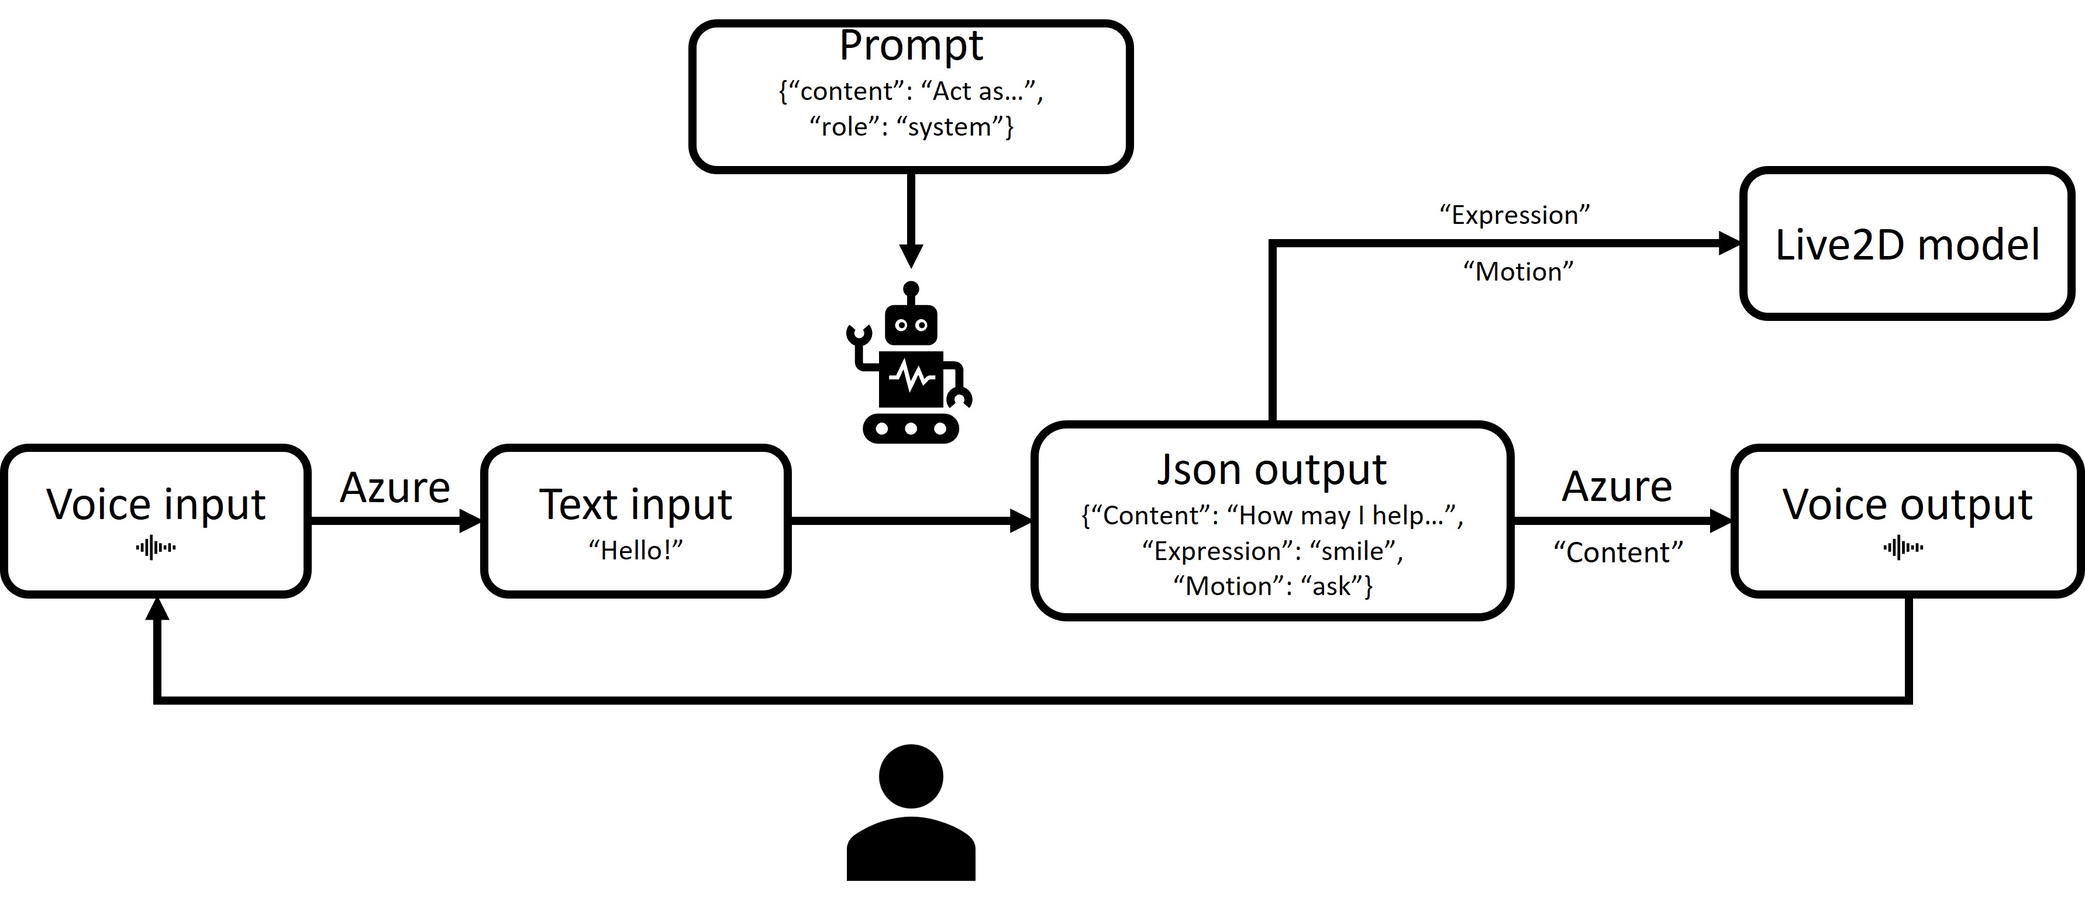
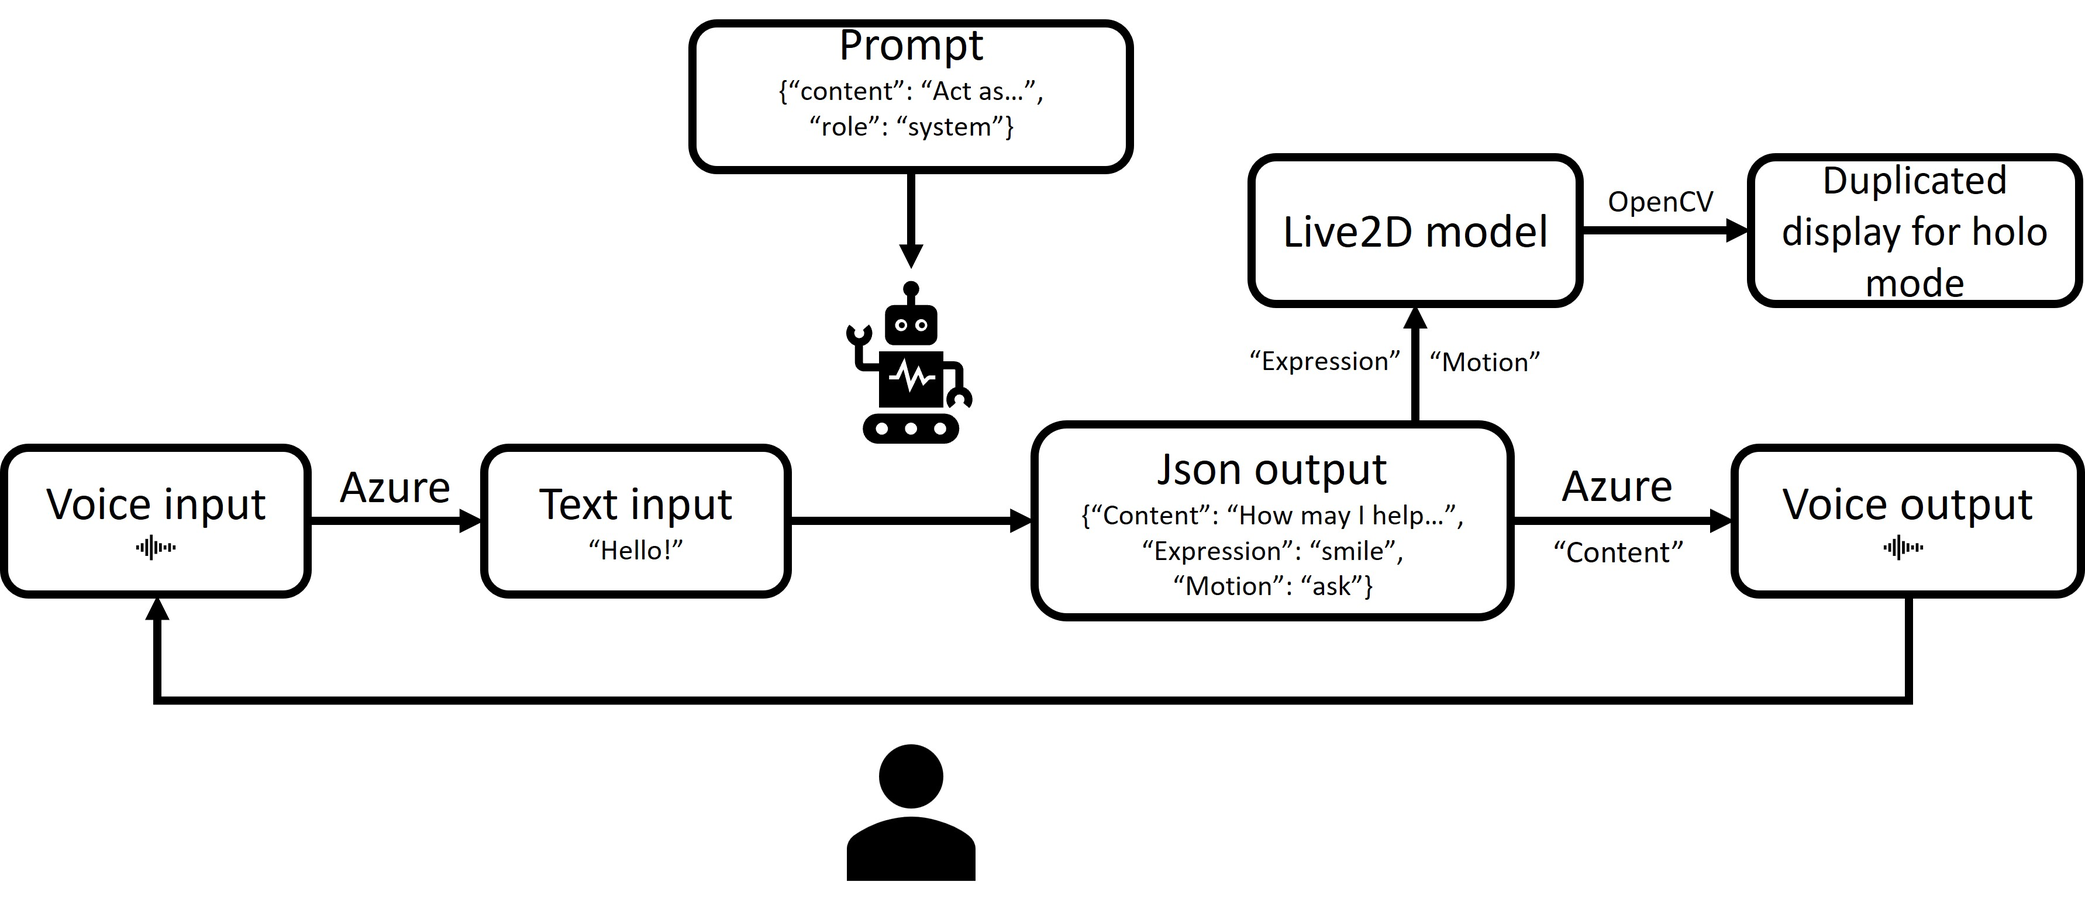
restructure_readme

Changed region(s): [[0.5916, 0.1543, 1.0, 0.463]]

diff --git a/README.md b/README.md
@@ -14,16 +14,14 @@
 + [TO-DO](#to-do)
 + [Introduction](#introduction)
 	+ [Prerequisites](#prerequisites)
-+ [Establishing the Environment](#establishing-the-environment)
-+ [Build and Deploy](#build-and-deploy)
-	+ [Windows](#windows)
-	+ [Linux](#linux)
 + [Usage](#usage)
 	+ [UI](#ui)
 	+ [Settings](#settings)
 	+ [Hologram](#hologram)
 + [Live2D Model](#live2d-model)
-+ [Pipeline](#pipeline)
++ [Build and Deploy](#build-and-deploy)
+	+ [Windows](#windows)
+	+ [Linux](#linux)
 + [End Note](#end-note)
 
 ## TO-DO<a name="to-do"></a>
@@ -37,103 +35,38 @@
 ## Introduction<a name="introduction"></a>
 [Return to Table of Content](#table-of-content)
 
+The goal is to develop a ChatGPT-based Live2D chatbot with hologram display.
 
-After months' thinking, I come up with a practical and controllable idea for the proposal!
++ The development shall base on Qt6/C++, which is totally new to me.
++ The Live2D chatbot shall either dock on the screen as a standard Live2D widget, or display in the holographic mode on a hologram pyramid.
++ The Live2D chatbot shall support voice and keyboard interaction, with natural expressions and even body motions.
 
-+ Develop a ChatGPT-based Live2D chatbot with hologram display.
-	+ The development shall base on Qt6/C++, which is totally new to me.
-	+ The Live2D chatbot shall either dock on the screen as a standard Live2D widget, or display in the holographic mode on a hologram pyramid.
-	+ The Live2D chatbot shall support voice and keyboard interaction, with natural expressions and even body motions.
-	+ The whole development process shall be well-archived and reproducible.
+The workflow of the project is like follows.
 
-The main idea goes like this. A cute [Live2D](https://www.live2d.com/en/) character (I shall call it Live2D model, or model for convenience) will stay on the bottom right of the user's screen. The model is nothing more than a common [Live2D widget](https://github.com/akiroz/Live2D-Widget), except for the fact that it is capable of vocal and bodily communication. And it can even turn into a hologram model once you activate the holo mode! Conceptually speaking it is similar to the [GateBox](https://www.gatebox.ai/), which is a famous virtual intelligent companion with hologram display as well. That said, we are actually DIY an (almost) free and personalized GateBox.
+![](screenshots/pipeline.jpg "The pipeline of the app.")
+> The input, should it be voice, will be converted to text by Azure. It is then combined to form the "messages" for OpenAI API format. The output from ChatGPT is in JSON format, containing three keys: "Expressions", "Motions", and "Content". The "Expressions" and "Motions" are used to animate the [Live2D](https://www.live2d.com/en/) model, and the "Content" will be voiced by Azure and also stitched to the "messages". The Live2D model can be duplicated by OpenCV for holographic display. The process Loops until the user terminates the talk session. The chat history is temporarily kept and will be read if user restart the chat or talk session, unless the user resets the history or closes the app. 
 
 #### Prerequisites<a name="prerequisites"></a>
 [Return to Table of Content](#table-of-content)
 
 All the prerequisites are listed below.
 
-First things first, a [PC](https://en.wikipedia.org/wiki/Personal_computer) is required. The development environment can be [Windows 10/11](https://www.microsoft.com/software-download/windows11) + [MSVC compiler](https://visualstudio.microsoft.com/vs/older-downloads/#visual-studio-2019-and-other-products) or [Ubuntu20/22](https://ubuntu.com/download/desktop) + [GCC compiler](https://linuxize.com/post/how-to-install-gcc-on-ubuntu-20-04/), with the [Qt Creator](https://github.com/qt-creator/qt-creator) as the [IDE](https://en.wikipedia.org/wiki/Integrated_development_environment). Also, a mirror APP is needed so that you can mirror your PC screen to a mobile device for hologram display (using a pyramid) through Wifi. A simple google (maybe new Bing nowadays) search can find you plenty of such apps.
+If you directly download the release:
 
-Second, an [OpenAI API key](https://platform.openai.com/docs/introduction) for chatGPT calls and a [Microsoft Azure API key](https://learn.microsoft.com/en-us/azure/search/search-security-api-keys?tabs=portal-use%2Cportal-find%2Cportal-query) for speech-to-text and text-to-speech services are required. When you speak to the Live2D character, your words will be conversed to texts using Azure's speech-to-text API and sent to chatGPT. The latter's response will be sent to Azure's text-to-speech service so that the model can "speak".
-
-Third, a [hologram pyramid](https://www.wikihow.com/Make-a-Holographic-Illusion-Pyramid) and a flat screen are required. The hologram pyramid can be easily found from multiple online shopping platforms. The pyramid's size depends on the screen size. For the latter, a 10'-12' iPad would be the best choice because its size, well-designed appearance, and functionality are just so perfect! Anyway, choose your pyramid based on your screen!
-
-Fourth, a microphone and speaker. 
++ PC.
++ an [OpenAI API key](https://platform.openai.com/docs/introduction) for chatGPT calls and a [Microsoft Azure API key](https://learn.microsoft.com/en-us/azure/search/search-security-api-keys?tabs=portal-use%2Cportal-find%2Cportal-query) for speech-to-text and text-to-speech services. When you speak to the Live2D character, your words will be conversed to texts using Azure's speech-to-text API and sent to chatGPT. The latter's response will be sent to Azure's text-to-speech service so that the model can "speak".
++ A secondary screen, be it a LED screen or iPad. The size is best in 10'-12'.
+	+ If you use iPad or similar mobile device as the secondary screen for wireless display, you will also need a mirror APP on your PC, such as [this one](https://github.com/H-M-H). (Should you use it on Win11, check [this](https://github.com/H-M-H/Weylus/issues/140))
++ A [hologram pyramid](https://www.wikihow.com/Make-a-Holographic-Illusion-Pyramid). You may [create one manually](https://www.wikihow.com/Make-a-Holographic-Illusion-Pyramid), or but it from online shopping platform. Make sure its size is compatible with the screen size above.
++ A microphone and speaker.
 
 Some optional requirements include a Raspberry PI or Nvidia Jetson to make things more nerdy and geeky, and your personal chat log with the target user so that a more **you** companion can be created through chatGPT finetuning.
 
-## Establishing the Environment<a name="establishing-the-environment"></a>
-[Return to Table of Content](#table-of-content)
+If you would like to amend and build the project:
 
-We now set up everything before diving into the coding part. First, browse the online shopping platforms and by a hologram pyramid for a 10'-12' screen. You may also [build one manually](https://www.wikihow.com/Make-a-Holographic-Illusion-Pyramid). The pyramid may take one to two weeks to deliver. Also, if you do not have a iPad, then buy or find a LED screen (if you don't mind the annoying wires).
-
-On your PC, there are several things to download/install, they are listed below.
-	
-+ [Visual Studio and MSVC compiler](https://visualstudio.microsoft.com/vs/older-downloads/#visual-studio-2019-and-other-products) for Windows PC or [GCC compiler](https://linuxize.com/post/how-to-install-gcc-on-ubuntu-20-04/) for Ubuntu PC. When install the Visual Studio, tick "Desktop Development with C++".
-+ [Qt Creator](https://github.com/qt-creator/qt-creator), which is an IDE specifically for Qt. It will be used to build the project with the MSVC (Windows) or GCC (Linux) compiler.
-+ [Git Bash](https://git-scm.com/download/win) (Windows only), we will use it to run the bat script on Windows. When install, simply click Next, no need to change the default setting except for the installation path. If you are using Linux, install the Git command.
-+ [System Environment Variable](https://www.computerhope.com/issues/ch000549.htm), add [OpenAI API key](https://platform.openai.com/docs/introduction) and [Microsoft Azure API key](https://learn.microsoft.com/en-us/azure/search/search-security-api-keys?tabs=portal-use%2Cportal-find%2Cportal-query) as your environment variables. The two keys will be free for one month if you are new user. After which, they will switch to pay-as-you-go. Their charge is trivial, therefore, it does no harm to use them. (During the whole (1.5 month) development of this project, I was only charged for about 3 dollars in total.)
-+ [Mirror APP (optional)], which mirror your screen to an iPad. It is required if you don't have a separated screen connected with your PC.
-
-## Build and Deploy<a name="build-and-deploy"></a>
-[Return to Table of Content](#table-of-content)
-
-(You don't need this if you just download the released app.) To build the project, there are two major steps. 
-
-#### Windows<a name="windows"></a>
-[Return to Table of Content](#table-of-content)
-
-First, locate the path of the `cmake.exe` in your Qt. For me, it is in `E:\Qt\Tools\CMake_64\bin\cmake.exe`. Then, edit `build_component.bat`, adjust Line 4 to
-
-```
-set CMAKE=path\to\your\cmake.exe
-```
-
-Then, launch `Git Bash`, `cd` to the project root path, run the `build_component.bat` script in the Git Bash by
-
-```
-./build_component.bat
-```
-
-The batch script will download, build, and install OpenSSL, Curl, and OpenCV, and finally delete all unnecessary resources.
-
-
-Second, launch your Qt Creator, Open Project --> locate the project folder --> choose the `.pro` file to open. Then click `Run` button on the bottom left. An executable `HoloBot.exe` will be generated (inside something like `build-HoloLive2dChatbot-Desktop_Qt_6_5_0_MSVC2019_64bit-Release`). And we are ready to deploy. 
-
-First, ensure that `VCINSTALLDIR` is set in your [System Environment Variable](https://www.computerhope.com/issues/ch000549.htm). I set it to `D:\VisualStudio2019\VC` as I installed the VS to disk D. Then, locate the path of the `windeployqt.exe` in your Qt. For me, it is in `E:\Qt\6.5.0\msvc2019_64\bin\windeployqt.exe`. Make sure its version (6.5.0) is the same as your working Qt version. There could be multiple `windeployqt.exe` existed in your Qt. For me, I have another one of version `6.4.1` in `E:\Qt\Tools\QtDesignStudio\qt6_design_studio_reduced_version\bin` which is not compatible with my Qt 6.5.0. 
-
-Second, copy `HoloBot.exe` to an empty folder, lets call it `\HoloBot\HoloBot.exe`, in that folder, launch Git Bash, copy all the dependencies to this folder by
-
-```
-E:\Qt\6.5.0\msvc2019_64\bin\windeployqt.exe . --compiler-runtime
-``` 
-
-Make sure there is no error returned. The command will generate the following dependencies.
-
-![](screenshots/deploy.png "The generated dependencies.")
-> All except `HoloBot.exe` are automatically generated. Make sure `vc_redist_x64.exe` is there!
-
-
-
-
-Finally, manually copy the follows to `\HoloBot\`.
-
-+ `libcurl.dll`
-+ `Microsoft.CognitiveServices.Speech.core.dll`
-+ `Microsoft.CognitiveServices.Speech.extension.audio.sys.dll`
-+ `Microsoft.CognitiveServices.Speech.extension.codec.dll`
-+ `opencv_core470.dll`, `opencv_highgui470.dll`, `opencv_imgcodecs470.dll`, `opencv_imgproc470.dll`
-+ `Resources` folder (don't forget this!)
-
-
-Now `\HoloBot` is a standalone package for the app!!
-
-
-#### Linux<a name="linux"></a>
-[Return to Table of Content](#table-of-content)
-
-To do...
++ [Windows 10/11](https://www.microsoft.com/software-download/windows11) + [MSVC compiler](https://visualstudio.microsoft.com/vs/older-downloads/#visual-studio-2019-and-other-products) or [Ubuntu20/22](https://ubuntu.com/download/desktop) + [GCC compiler](https://linuxize.com/post/how-to-install-gcc-on-ubuntu-20-04/). Note that Windows + Mingw and Windows + GCC are not compatible. Note that When install the Visual Studio, tick "Desktop Development with C++".
++ [Qt Creator](https://github.com/qt-creator/qt-creator), which is an IDE specifically for Qt. Install this will also install all necessary Qt libraries.
++ [Git Bash](https://git-scm.com/download/win) (Windows only), we will use it to run the bat script on Windows. When install, simply click Next, no need to change the default setting except for the installation path.
 
 
 ## Usage<a name="usage"></a>
@@ -177,13 +110,12 @@ voice=zh-CN-XiaoyiNeural
 ```
 
 You may
+ 
+1. switch the order of them (put your desired under \[1\] for convenience, but make sure you follow the format and assign one language for one group), and 
+3. add a new voice. 
+	+ Visit the [voice gallery](https://speech.microsoft.com/portal/193919d8d6294e799745bbe666cdea3c/voicegallery) from Azure website. Once you chose a voice, you should see the corresponding example code, from which you can find the voice name, for example, `en-US-GuyNeural`, then add it to `languages.ini`. 
 
-1. add more language, 
-2. switch the order of them (put your desired under \[1\] for convenience, but make sure you follow the format and assign one language for one group), and 
-3. choose a different voice. 
-	+ To choose a different voice, visit the [voice gallery](https://speech.microsoft.com/portal/193919d8d6294e799745bbe666cdea3c/voicegallery) from Azure website. Once you chose a voice, you should see the corresponding example code, from which you can find the voice name, for example, `en-US-GuyNeural`, then add it to `languages.ini`. 
-
-The `Settings` tool looks like this.
+The `Settings` dialog looks like this.
 
 ![](screenshots/Settings.png "The Settings dialog of the bot.")
 > The Setting dialog of the chatbot. From which you can choose the Live2D model, the prompt txt file, and languages. The languages are retrieved from `languages.ini`.
@@ -194,15 +126,33 @@ The prompt is the key to make ChatGPT act as your needs. In the default prompt, 
 #### Hologram<a name="hologram"></a>
 [Return to Table of Content](#table-of-content)
 
-Suppose you have the hologram pyramid, there are several ways to display it depending on your case.
+Suppose you already have the hologram pyramid, there are several ways to display it depending on your case.
 
-1. You have a PC and an iPad: install a mirror app in your PC, and then mirror your screen to an iPad. (There are numerous mirror apps available online, such as this [awesome one](https://github.com/H-M-H/Weylus). See [this issue](https://github.com/H-M-H/Weylus/issues/140) if you use Win11.) The downside is that iPad supports 4:3 ratio whereas normal monitor is usually in 16:9. Therefore we have to adjust the PC resolution to 4:3 to mirror it properly.
-2. You have a PC and a flat LED screen: simply connect the screen to your PC. The good thing is that the LED screen can mostly support 16:9 ratio.
-3. You have a Raspberry PI or Nvidia Jetson, on which placed embedded a small screen: this makes the who system portable.
+1. You have a PC and an iPad (or any other mobile device): install a mirror app in your PC, and then mirror your screen to an iPad. 
+	+ Pros
+		+ iPad is lightweight and you probably have one.
+		+ No annoying wires.
+	+ Cons
+		+ iPad has 4:3 aspect ratio whereas a normal PC monitor is usually in 16:9. You have to change the latter to 4:3 when mirroring.
+		+ Currently you will have to manually set the wallpaper of your PC to solid black, and also hide the taskbar/dock to make a pseudo-fullscreen effect. Because once the PC resolution changed to 4:3, the Qt fullscreen function won't fill the screen with black, instead it will be transparent. I will find a workaround for this.
+2. You have a PC and a flat LED screen: simply connect the screen to your PC. 
+	+ Pros
+		+ If the LED screen support 16:9 aspect ratio, then you don't need to adjust your PC display and set the pseudo-fullscreen.
+	+ Cons
+		+ The LED screen may not as light and thin as iPad is.
+		+ Cables for LED's power and display (HDMI) are annoying.		
+3. You have a Raspberry PI or Nvidia Jetson, on which placed embedded a small screen.
+	+ Pros
+		+ Highly portable, especially if you also use wireless microphone.
+	+ Cons
+		+ Hologram size may be limited due to small screen size. 
 
-I am currently using Option 1. No matter which one you choose, set the app as mentioned above, enable the talk mode, then the Holo mode, place the screen on the pyramid (or place the pyramid on your screen, should you use a heavy screen), and enjoy!
+(I am currently on Option 1.) No matter which one you choose, to enable the hologram, you should:
 
-(If you mirror the Live2D model via Safari on iPad, make sure to [make it shown (almost) full screen](https://www.ispringsolutions.com/blog/how-to-make-a-website-full-screen-on-the-ipad) on ipad manually. 
+1. configure the app as mentioned in [here](#settings), 
+2. enable the talk mode, 
+3. enable the Holo mode, and
+4. place the screen on the pyramid (or place the pyramid on your screen, should you use a heavy screen).
 
 
 ## Live2D Model<a name="live2d-model"></a>
@@ -215,19 +165,70 @@ Before import a new model, you need to do the follows.
 	+ How to determine the correct name? Go to an Live2D online viewer like [this one](https://guansss.github.io/live2d-viewer-web/), drag your model folder to it and play each expression and/or motion. By which you should be able to eyeball and name them. Make them distinguishable to each other. For example, for expressions, there are several [basic emotions](https://en.wikipedia.org/wiki/Emotion) to name, including `Happy`, `Sad`, `Disgusting`, `Fear`, `Angry`, `Neutral`, `Surprised`, and `Contempt`, and for motions, consider `Smile`, `Cry`, `Laugh`, `Doubt`, `Jump`, etc... Restructure the json if necessary. See the existing model json files (such as `Resources/Wanko_touch/Wanko_touch.model3.json` and `Resources/Haru/Haru.model3.json`) for reference.
 + If the model's predefined expressions and motions do not satisfy you, you can use [Live2D Editor](https://www.live2d.com/en/) to create more. I am very new to this but there are plenty of tutorials online. Alternatively, you may pay someone to create a custom model for you.
 
-To import more models, simply copy/paste the model folder under `Resources` folder. The model structure looks like this.
+To import more models, simply copy/paste the model folder under `Resources` folder. The model folder structure looks like this.
 
 ![](screenshots/model_structure.png "The structure of a model.")
-> Usually, a model folder contains the expressions, textures, motions, sounds, and some other files. Some may have only one of expressions or motions. Make sure your model folder is consistent with the model json file. Here in this example, the model folder `Haru` and the model json file `Haru.model3.json` have the a `Haru` in them. Inconsistency of this would crash the app.
+> Usually, a model folder contains the expressions, textures, motions, sounds, and some other files. Some models may not have expressions or motions, but that won't be a problem for our app. Make sure your model folder is consistent with the model json file. Here in this example, the model folder `Haru` and the model json file `Haru.model3.json` are consistent because they both have `Haru`. Inconsistency would crash the app.
 
 Restart the app to load the imported model.
 
-## Pipeline<a name="pipeline"></a>
+## Build and Deploy<a name="build-and-deploy"></a>
 [Return to Table of Content](#table-of-content)
 
-![](screenshots/pipeline.jpg "The pipeline of the app.")
-> The input, should it be voice, will be converted to text by Azure. It is then combined to form the "messages" for OpenAI API format. The output from ChatGPT is in JSON format, containing three keys: "Expressions", "Motions", and "Content". The "Expressions" and "Motions" are used to animate the Live2D model, and the "Content" will be voiced by Azure and also stitched to the "messages". Loop until the user terminates the talk session. The chat history is temporarily saved and will be read if user restart the chat or talk session, unless the user resets the history or closes the app.
+(You don't need this if you just download the released app.) To build the project, there are two major steps. 
 
+#### Windows<a name="windows"></a>
+[Return to Table of Content](#table-of-content)
+
+First, locate the path of the `cmake.exe` in your Qt. For me, it is in `E:\Qt\Tools\CMake_64\bin\cmake.exe`. Edit `build_component.bat`, adjust Line 4 to
+
+```
+set CMAKE=path\to\your\cmake.exe
+```
+
+Launch `Git Bash` in the project root path, run the `build_component.bat` script in the Git Bash by
+
+```
+./build_component.bat
+```
+
+The batch script will download, build, and install OpenSSL, Curl, and OpenCV, and finally delete all unnecessary resources.
+
+
+Then, launch your Qt Creator, Open Project --> locate the project folder --> choose the `holoLive2dChatbot.pro` file to open. Click `Run` button on the bottom left. An executable `HoloBot.exe` will be generated (inside something like `build-HoloLive2dChatbot-Desktop_Qt_6_5_0_MSVC2019_64bit-Release`). And we are ready to deploy. 
+
+
+To deploy, first, ensure that `VCINSTALLDIR` is set in your [System Environment Variable](https://www.computerhope.com/issues/ch000549.htm). I set it to `D:\VisualStudio2019\VC` as I installed the VS to disk D. Then, locate the path of the `windeployqt.exe` in your Qt. For me, it is in `E:\Qt\6.5.0\msvc2019_64\bin\windeployqt.exe`. Make sure its version (6.5.0) is the same as your working Qt version. There could be multiple `windeployqt.exe` existed in your Qt. For me, I have another one of version `6.4.1` in `E:\Qt\Tools\QtDesignStudio\qt6_design_studio_reduced_version\bin` which is not compatible with my Qt 6.5.0. 
+
+Then, copy `HoloBot.exe` to an empty folder, lets call it `\HoloBot\HoloBot.exe`, in that folder, launch Git Bash, copy all the dependencies to this folder by
+
+```
+E:\Qt\6.5.0\msvc2019_64\bin\windeployqt.exe . --compiler-runtime
+``` 
+
+Make sure there is no error returned. The command will generate the following dependencies.
+
+![](screenshots/deploy.png "The generated dependencies.")
+> All except `HoloBot.exe` are automatically generated. Make sure `vc_redist_x64.exe` is there!
+
+
+Finally, manually copy the follows to `\HoloBot\`.
+
++ `libcurl.dll`
++ `Microsoft.CognitiveServices.Speech.core.dll`
++ `Microsoft.CognitiveServices.Speech.extension.audio.sys.dll`
++ `Microsoft.CognitiveServices.Speech.extension.codec.dll`
++ `opencv_core470.dll`, `opencv_highgui470.dll`, `opencv_imgcodecs470.dll`, `opencv_imgproc470.dll`
++ `Resources` folder (don't forget this!)
+
+
+Now `\HoloBot` is a standalone package for the app!!
+
+
+#### Linux<a name="linux"></a>
+[Return to Table of Content](#table-of-content)
+
+To do...
 
 ## End Note<a name="end-note"></a>
 [Return to Table of Content](#table-of-content)
